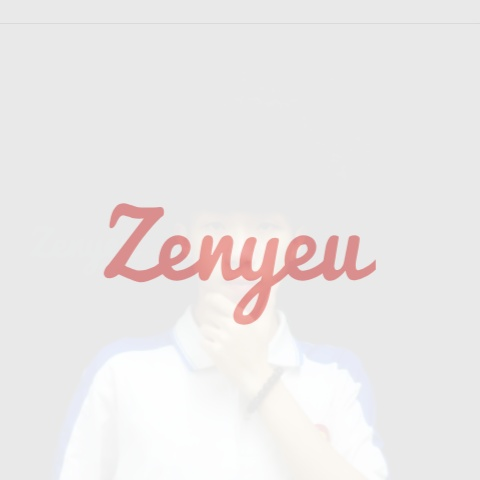
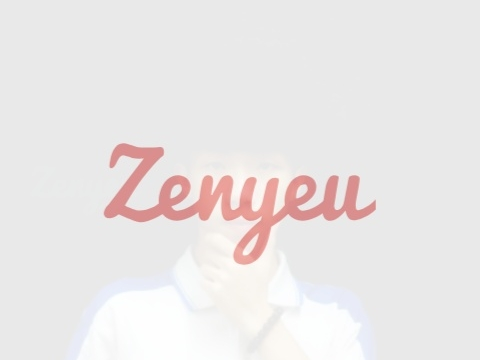
update from gridea: 2019-11-30 21:07:55

Changed region(s): [[0.2188, 0.4889, 0.7812, 0.7333], [0.2188, 0.3972, 0.3438, 0.4889]]

diff --git a/post/about/index.html b/post/about/index.html
@@ -4,7 +4,7 @@
 <meta name="viewport" content="width=device-width, initial-scale=1" />
 <title>关于Zenyeu | Zenyeu</title>
 <meta name="description" content="Share the beautiful life we love❤" />
-<link rel="shortcut icon" href="https://zenyeu.github.io/favicon.ico?v=1575116729415">
+<link rel="shortcut icon" href="https://zenyeu.github.io/favicon.ico?v=1575119270298">
 <link href="https://cdn.remixicon.com/releases/v1.3.1/remixicon.css" rel="stylesheet">
 <link rel="stylesheet" href="https://cdnjs.cloudflare.com/ajax/libs/KaTeX/0.10.0/katex.min.css">
 <link rel="stylesheet" href="https://fonts.googleapis.com/css?family=Droid+Serif:400,700">
@@ -18,7 +18,7 @@
 
   </head>
   <body>
-    <div class="site-nav no-cover">
+    <div class="site-nav has-cover">
       <div class="head">
   <div class="inner">
     <a class="site-name" href="https://zenyeu.github.io">
@@ -50,7 +50,11 @@
   </div>
 </div>
     </div>
-    <article role="main" class="hentry ">
+    <article role="main" class="hentry has-cover">
+      
+        <div class="entry-cover js-cover" data-src="https://zenyeu.github.io/post-images/about.jpeg" data-width="900" data-height="423" style="background-image:url(https://zenyeu.github.io/post-images/about.jpeg); height: 80vw;">
+          <h1 class="post-title">关于Zenyeu</h1>
+        </div>
       
       <h1 class="entry-title" itemprop="headline">关于Zenyeu</h1>
       <div class="entry-meta">
@@ -64,7 +68,6 @@
 <p><strong>Zenyeu</strong> 学生 中国广州 网络与新媒体专业</p>
 <h3 id="为什么叫-zenyeu"><strong>为什么叫 Zenyeu</strong></h3>
 <p><strong>Zenyeu</strong> 一词来自个人真实姓名后两字的『粤语』拼音：<strong>zên</strong>3 <strong>yêu</strong>6</p>
-<p><img src="https://zenyeu.github.io/post-images/1575098380886.jpeg" alt=""></p>
 
       </div>
       <div class="entry-block">
@@ -116,7 +119,7 @@
     <footer class="footer">
   <div class="main">
     <a href="https://zenyeu.github.io">
-      <img class="avatar" src="https://zenyeu.github.io/images/avatar.png?v=1575116729415" alt="Zenyeu">
+      <img class="avatar" src="https://zenyeu.github.io/images/avatar.png?v=1575119270298" alt="Zenyeu">
     </a>
     <div class="footer__social">
       

diff --git a/index.html b/index.html
@@ -4,7 +4,7 @@
 <meta name="viewport" content="width=device-width, initial-scale=1" />
 <title>Zenyeu</title>
 <meta name="description" content="Share the beautiful life we love❤" />
-<link rel="shortcut icon" href="https://zenyeu.github.io/favicon.ico?v=1575116729415">
+<link rel="shortcut icon" href="https://zenyeu.github.io/favicon.ico?v=1575119270298">
 <link href="https://cdn.remixicon.com/releases/v1.3.1/remixicon.css" rel="stylesheet">
 <link rel="stylesheet" href="https://cdnjs.cloudflare.com/ajax/libs/KaTeX/0.10.0/katex.min.css">
 <link rel="stylesheet" href="https://fonts.googleapis.com/css?family=Droid+Serif:400,700">
@@ -77,6 +77,8 @@
   
     <div class="item Article">
       
+        <a class="item-image js-cover" data-src="https://zenyeu.github.io/post-images/about.jpeg" href="https://zenyeu.github.io/post/about" style="background-image:url('https://zenyeu.github.io/post-images/about.jpeg');"></a>
+      
       <a class="item-main" href="https://zenyeu.github.io/post/about">
         <div class="item-meta">
           <time datetime="2001-05-19 12:15:00">2001-05-19</time>
@@ -99,7 +101,7 @@
     <footer class="footer">
   <div class="main">
     <a href="https://zenyeu.github.io">
-      <img class="avatar" src="https://zenyeu.github.io/images/avatar.png?v=1575116729415" alt="Zenyeu">
+      <img class="avatar" src="https://zenyeu.github.io/images/avatar.png?v=1575119270298" alt="Zenyeu">
     </a>
     <div class="footer__social">
       

diff --git a/archives/index.html b/archives/index.html
@@ -4,7 +4,7 @@
 <meta name="viewport" content="width=device-width, initial-scale=1" />
 <title>Zenyeu</title>
 <meta name="description" content="Share the beautiful life we love❤" />
-<link rel="shortcut icon" href="https://zenyeu.github.io/favicon.ico?v=1575116729415">
+<link rel="shortcut icon" href="https://zenyeu.github.io/favicon.ico?v=1575119270298">
 <link href="https://cdn.remixicon.com/releases/v1.3.1/remixicon.css" rel="stylesheet">
 <link rel="stylesheet" href="https://cdnjs.cloudflare.com/ajax/libs/KaTeX/0.10.0/katex.min.css">
 <link rel="stylesheet" href="https://fonts.googleapis.com/css?family=Droid+Serif:400,700">
@@ -73,6 +73,8 @@
   
     <div class="item Article">
       
+        <a class="item-image js-cover" data-src="https://zenyeu.github.io/post-images/about.jpeg" href="https://zenyeu.github.io/post/about" style="background-image:url('https://zenyeu.github.io/post-images/about.jpeg');"></a>
+      
       <a class="item-main" href="https://zenyeu.github.io/post/about">
         <div class="item-meta">
           <time datetime="2001-05-19 12:15:00">2001-05-19</time>
@@ -92,7 +94,7 @@
     <footer class="footer">
   <div class="main">
     <a href="https://zenyeu.github.io">
-      <img class="avatar" src="https://zenyeu.github.io/images/avatar.png?v=1575116729415" alt="Zenyeu">
+      <img class="avatar" src="https://zenyeu.github.io/images/avatar.png?v=1575119270298" alt="Zenyeu">
     </a>
     <div class="footer__social">
       

diff --git a/post/sheng-cun-yu-shu-zi-shi-dai-xia-de-shu-zi-sheng-huo/index.html b/post/sheng-cun-yu-shu-zi-shi-dai-xia-de-shu-zi-sheng-huo/index.html
@@ -4,7 +4,7 @@
 <meta name="viewport" content="width=device-width, initial-scale=1" />
 <title>数字时代下的数字生活 | Zenyeu</title>
 <meta name="description" content="Share the beautiful life we love❤" />
-<link rel="shortcut icon" href="https://zenyeu.github.io/favicon.ico?v=1575116729415">
+<link rel="shortcut icon" href="https://zenyeu.github.io/favicon.ico?v=1575119270298">
 <link href="https://cdn.remixicon.com/releases/v1.3.1/remixicon.css" rel="stylesheet">
 <link rel="stylesheet" href="https://cdnjs.cloudflare.com/ajax/libs/KaTeX/0.10.0/katex.min.css">
 <link rel="stylesheet" href="https://fonts.googleapis.com/css?family=Droid+Serif:400,700">
@@ -128,7 +128,7 @@
     <footer class="footer">
   <div class="main">
     <a href="https://zenyeu.github.io">
-      <img class="avatar" src="https://zenyeu.github.io/images/avatar.png?v=1575116729415" alt="Zenyeu">
+      <img class="avatar" src="https://zenyeu.github.io/images/avatar.png?v=1575119270298" alt="Zenyeu">
     </a>
     <div class="footer__social">
       

diff --git a/post/hello-gridea/index.html b/post/hello-gridea/index.html
@@ -4,7 +4,7 @@
 <meta name="viewport" content="width=device-width, initial-scale=1" />
 <title>Hello Gridea | Zenyeu</title>
 <meta name="description" content="Share the beautiful life we love❤" />
-<link rel="shortcut icon" href="https://zenyeu.github.io/favicon.ico?v=1575116729415">
+<link rel="shortcut icon" href="https://zenyeu.github.io/favicon.ico?v=1575119270298">
 <link href="https://cdn.remixicon.com/releases/v1.3.1/remixicon.css" rel="stylesheet">
 <link rel="stylesheet" href="https://cdnjs.cloudflare.com/ajax/libs/KaTeX/0.10.0/katex.min.css">
 <link rel="stylesheet" href="https://fonts.googleapis.com/css?family=Droid+Serif:400,700">
@@ -131,7 +131,7 @@
     <footer class="footer">
   <div class="main">
     <a href="https://zenyeu.github.io">
-      <img class="avatar" src="https://zenyeu.github.io/images/avatar.png?v=1575116729415" alt="Zenyeu">
+      <img class="avatar" src="https://zenyeu.github.io/images/avatar.png?v=1575119270298" alt="Zenyeu">
     </a>
     <div class="footer__social">
       

diff --git a/post/ying-ji/index.html b/post/ying-ji/index.html
@@ -4,7 +4,7 @@
 <meta name="viewport" content="width=device-width, initial-scale=1" />
 <title>影集 | Zenyeu</title>
 <meta name="description" content="Share the beautiful life we love❤" />
-<link rel="shortcut icon" href="https://zenyeu.github.io/favicon.ico?v=1575116729415">
+<link rel="shortcut icon" href="https://zenyeu.github.io/favicon.ico?v=1575119270298">
 <link href="https://cdn.remixicon.com/releases/v1.3.1/remixicon.css" rel="stylesheet">
 <link rel="stylesheet" href="https://cdnjs.cloudflare.com/ajax/libs/KaTeX/0.10.0/katex.min.css">
 <link rel="stylesheet" href="https://fonts.googleapis.com/css?family=Droid+Serif:400,700">
@@ -126,7 +126,7 @@
     <footer class="footer">
   <div class="main">
     <a href="https://zenyeu.github.io">
-      <img class="avatar" src="https://zenyeu.github.io/images/avatar.png?v=1575116729415" alt="Zenyeu">
+      <img class="avatar" src="https://zenyeu.github.io/images/avatar.png?v=1575119270298" alt="Zenyeu">
     </a>
     <div class="footer__social">
       

diff --git a/tags/index.html b/tags/index.html
@@ -4,7 +4,7 @@
 <meta name="viewport" content="width=device-width, initial-scale=1" />
 <title>Zenyeu</title>
 <meta name="description" content="Share the beautiful life we love❤" />
-<link rel="shortcut icon" href="https://zenyeu.github.io/favicon.ico?v=1575116729415">
+<link rel="shortcut icon" href="https://zenyeu.github.io/favicon.ico?v=1575119270298">
 <link href="https://cdn.remixicon.com/releases/v1.3.1/remixicon.css" rel="stylesheet">
 <link rel="stylesheet" href="https://cdnjs.cloudflare.com/ajax/libs/KaTeX/0.10.0/katex.min.css">
 <link rel="stylesheet" href="https://fonts.googleapis.com/css?family=Droid+Serif:400,700">
@@ -65,7 +65,7 @@
     <footer class="footer">
   <div class="main">
     <a href="https://zenyeu.github.io">
-      <img class="avatar" src="https://zenyeu.github.io/images/avatar.png?v=1575116729415" alt="Zenyeu">
+      <img class="avatar" src="https://zenyeu.github.io/images/avatar.png?v=1575119270298" alt="Zenyeu">
     </a>
     <div class="footer__social">
       
